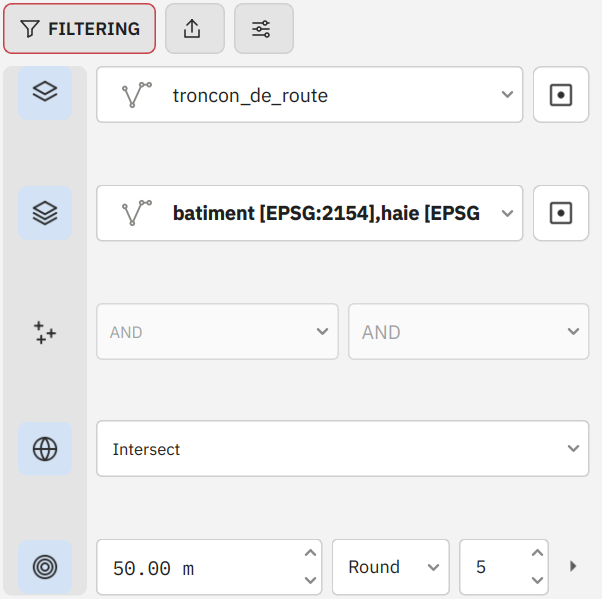
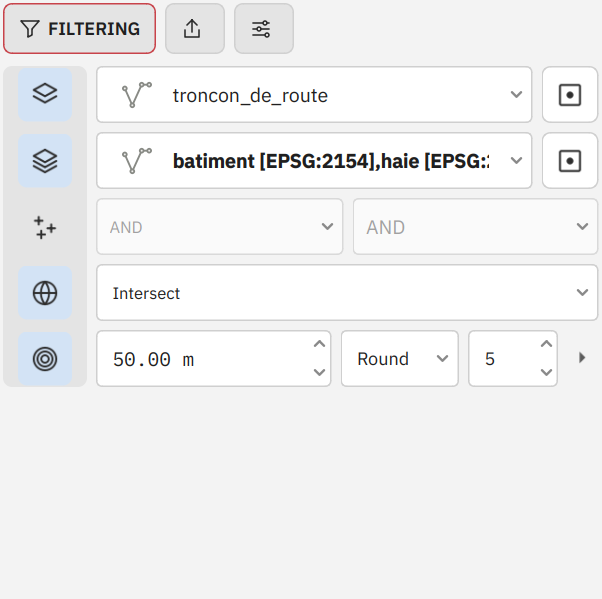
Deploy documentation f2fd92172a5194237d41acb3c192336c48927bb2 f2fd92172a5194237d41acb3c192336c48927bb2

diff --git a/guide.fr.html b/guide.fr.html
@@ -587,6 +587,7 @@ AND ST_Intersects("geom",
         <tr><td><code>UI_PROFILE</code></td><td>auto / compact / normal / hidpi</td><td>Taille des contrôles, appliquée aussitôt et au démarrage. <em>auto</em> se base sur l'écran de la fenêtre QGIS et sa mise à l'échelle : une hauteur utile sous 800 pixels logiques donne <em>compact</em>, quelle que soit l'échelle. Forcez <em>hidpi</em> sur un écran 4K si les contrôles paraissent petits.</td></tr>
         <tr><td><code>DOCK_POSITION</code></td><td>left / right / top / bottom</td><td>Côté où le panneau s'ancre à l'ouverture.</td></tr>
         <tr><td><code>ACTION_BAR_POSITION</code></td><td>top / bottom / left / right</td><td>Position des boutons d'action.</td></tr>
+        <tr><td><code>SECTION_HEIGHT</code></td><td>fit / fill</td><td>Lignes de FILTERING et EXPORTING. <em>fit</em> (par défaut) : chaque ligne à sa propre hauteur, un écart entre deux, en haut de la section ; la place restante reste en dessous et une section trop courte défile. <em>fill</em> : les lignes réparties sur toute la hauteur, comme en 5.1.1. Appliqué aussitôt ; demandé aussi par <em>Configurer FilterMate</em>.</td></tr>
         <tr><td><code>ACTIVE_THEME</code></td><td>auto / default / dark / light</td><td><em>auto</em> suit le thème de QGIS.</td></tr>
         <tr><td><code>feature_picker_limit</code></td><td>nombre, 1000 par défaut</td><td>Nombre maximal de lignes chargées dans la liste de sélection multiple.</td></tr>
         <tr><td><code>AGENT</code></td><td>true / false</td><td>Affiche la section AGENT (<code>enabled</code> sous <code>APP.OPTIONS.AGENT</code>). Active par défaut. L'activer affiche la section à la prochaine ouverture du panneau ; la désactiver la masque après un redémarrage de QGIS.</td></tr>

diff --git a/guide.html b/guide.html
@@ -588,6 +588,7 @@ AND ST_Intersects("geom",
         <tr><td><code>UI_PROFILE</code></td><td>auto / compact / normal / hidpi</td><td>Widget sizes, applied at once and at startup. <em>auto</em> picks from the screen of the QGIS window and its scaling: a usable height under 800 logical pixels selects <em>compact</em> whatever the scaling. Force <em>hidpi</em> on 4K displays if controls look small.</td></tr>
         <tr><td><code>DOCK_POSITION</code></td><td>left / right / top / bottom</td><td>Where the panel docks when opened.</td></tr>
         <tr><td><code>ACTION_BAR_POSITION</code></td><td>top / bottom / left / right</td><td>Position of the action buttons.</td></tr>
+        <tr><td><code>SECTION_HEIGHT</code></td><td>fit / fill</td><td>Rows of FILTERING and EXPORTING. <em>fit</em> (default): each row at its own height, one gap apart, at the top of the section; the room left stays under them and a short section scrolls. <em>fill</em>: the rows spread over the whole height, as in 5.1.1. Applied at once; also asked by <em>Set up FilterMate</em>.</td></tr>
         <tr><td><code>ACTIVE_THEME</code></td><td>auto / default / dark / light</td><td><em>auto</em> follows the QGIS theme.</td></tr>
         <tr><td><code>feature_picker_limit</code></td><td>number, default 1000</td><td>Maximum rows loaded in the multiple-selection list.</td></tr>
         <tr><td><code>AGENT</code></td><td>true / false</td><td>Shows the AGENT section (<code>enabled</code> under <code>APP.OPTIONS.AGENT</code>). On by default. Turning it on shows the section the next time the panel opens; turning it off hides it after QGIS restarts.</td></tr>
